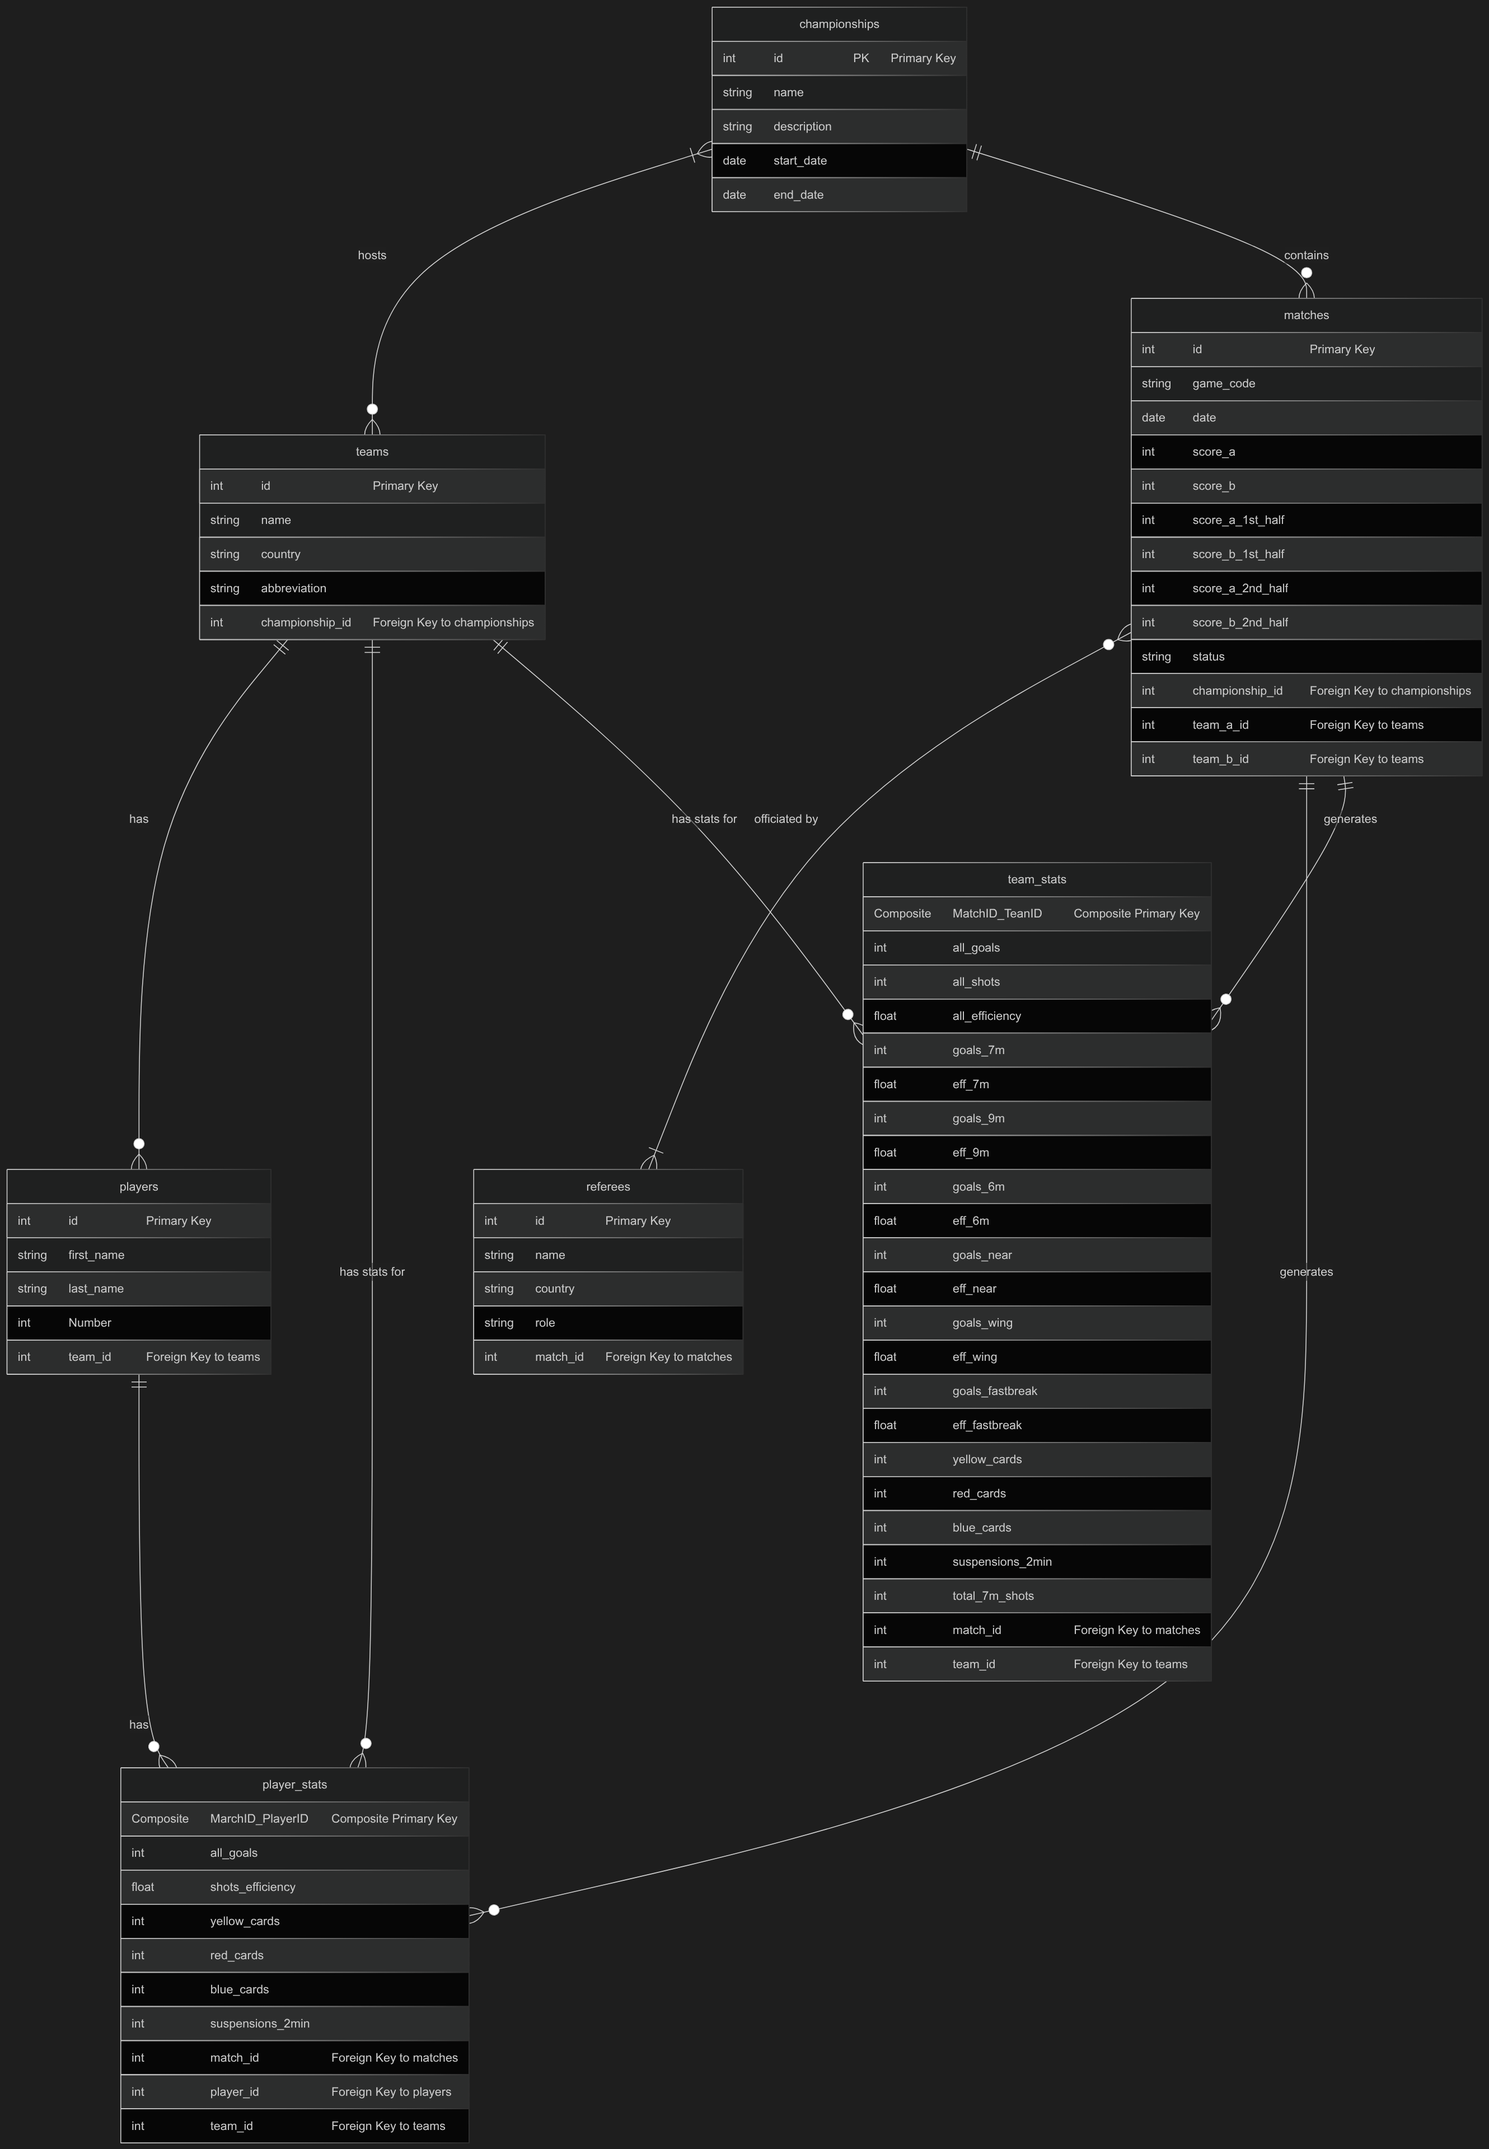
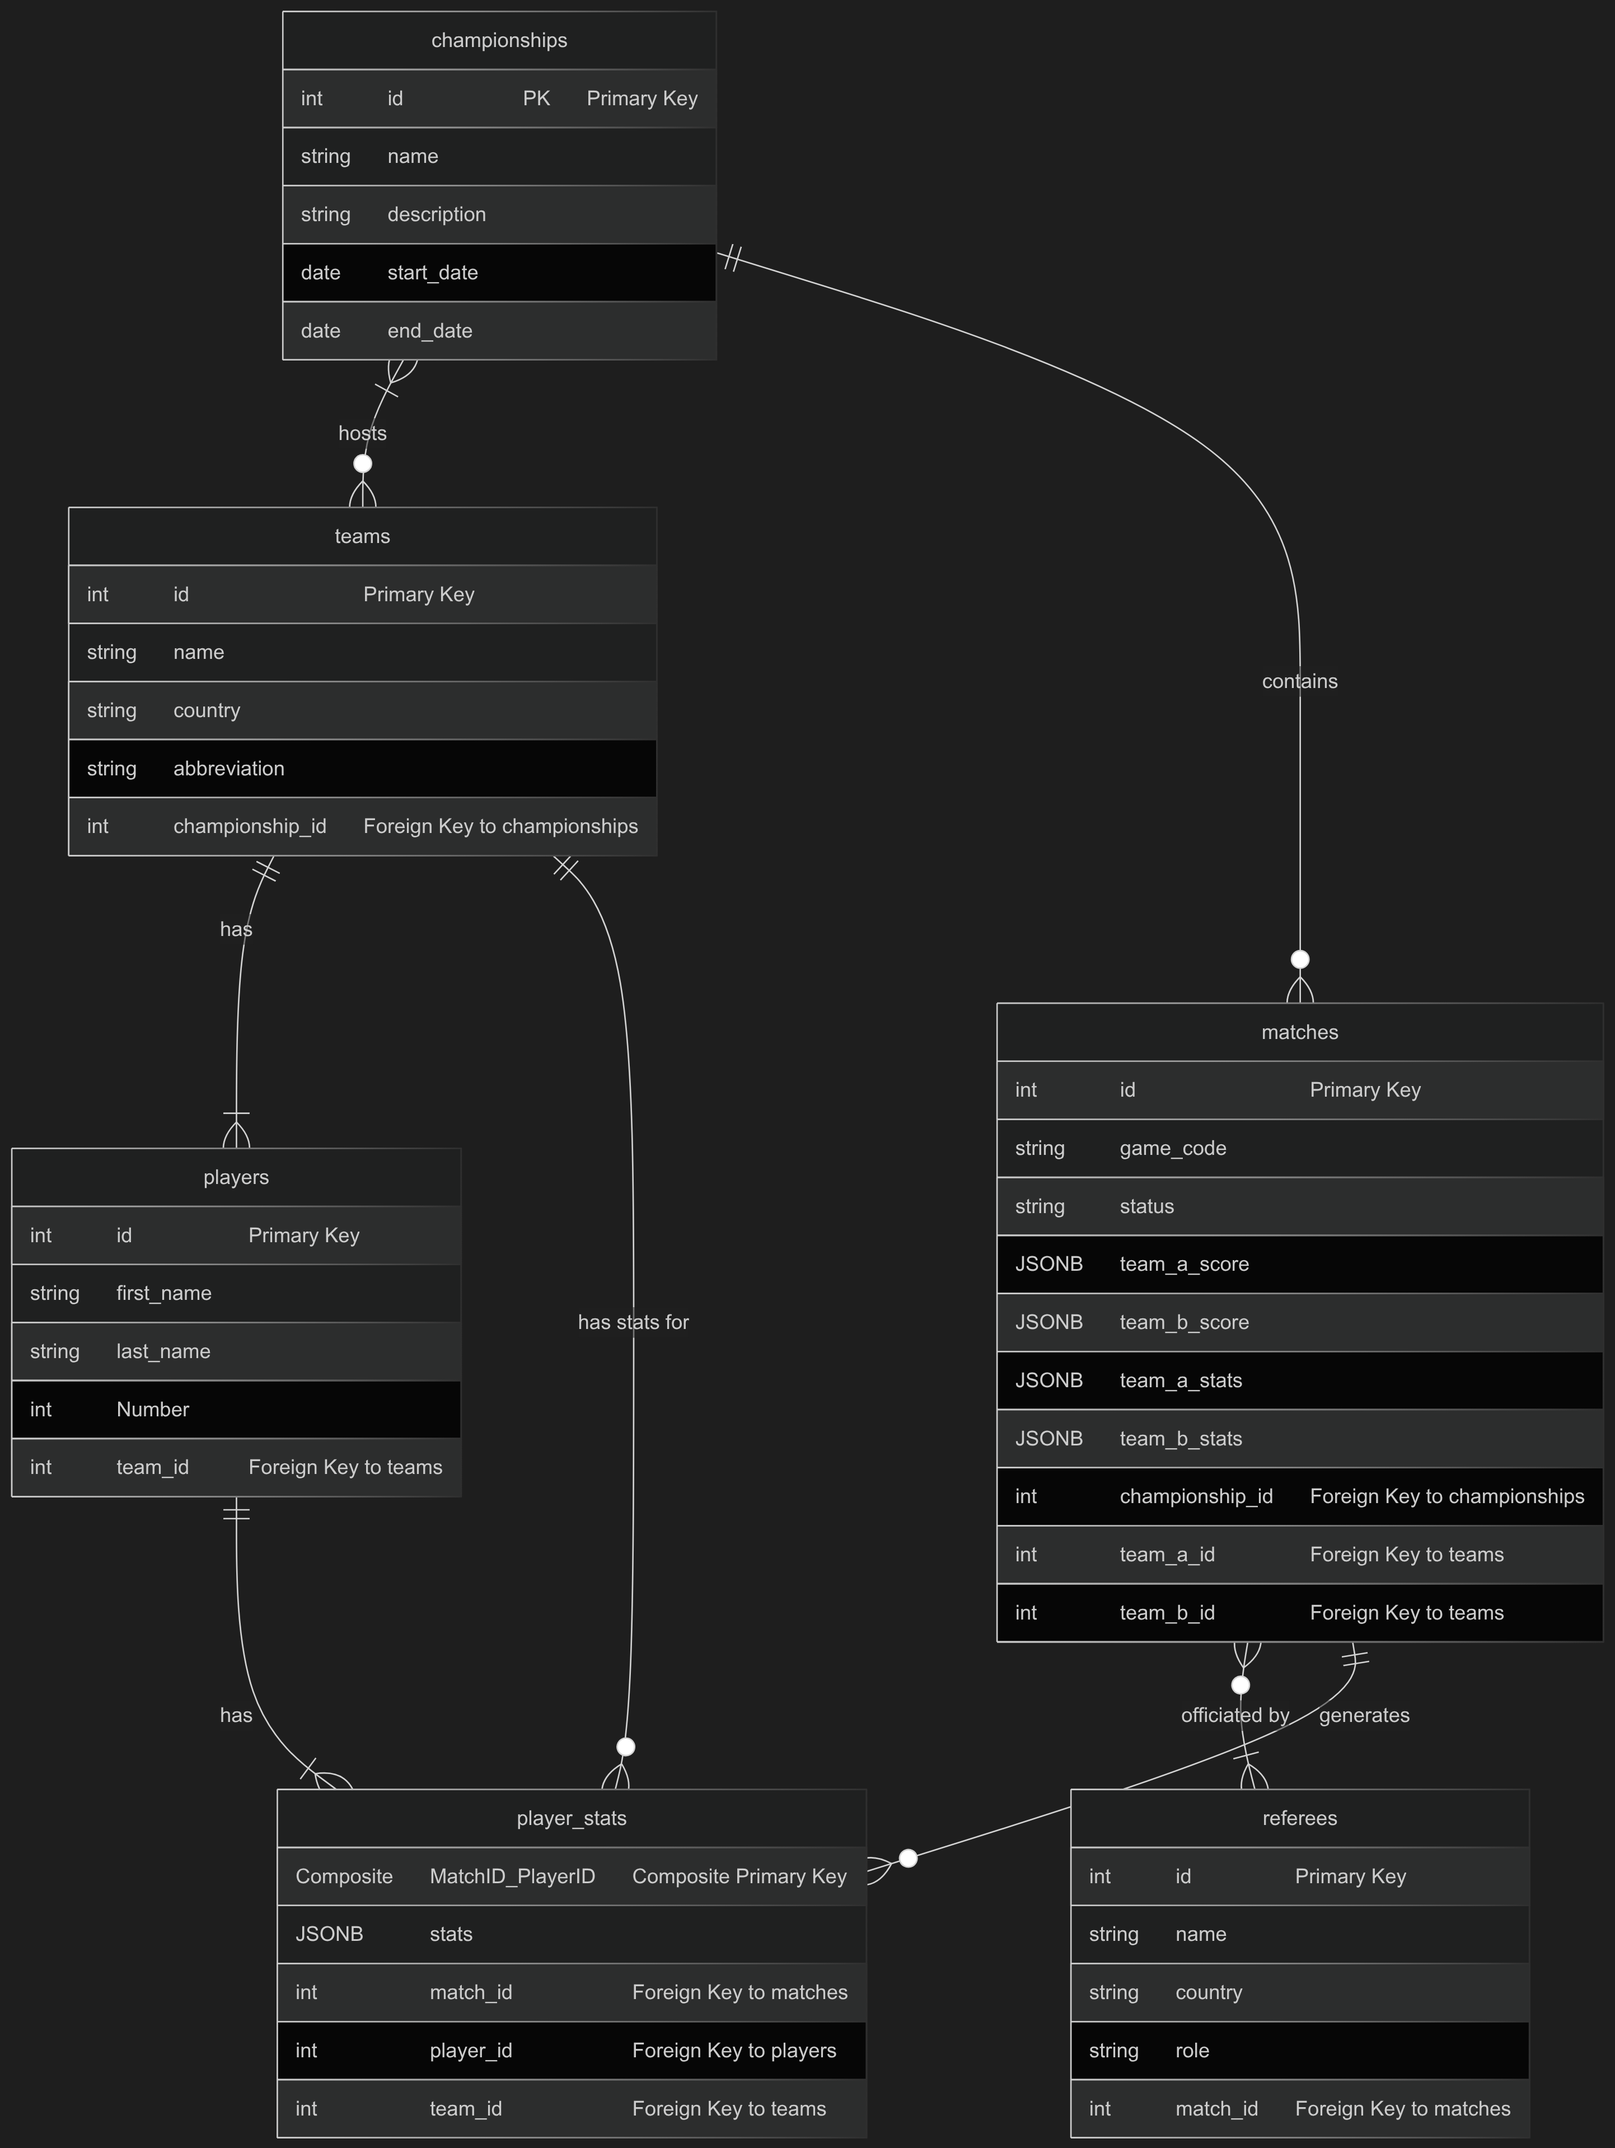
modified the database design to use JSONB

diff --git a/adddata.py b/adddata.py
@@ -3,6 +3,7 @@ from pprint import pprint
 import psycopg2
 from dotenv import load_dotenv
 import os
+import json
 championship_id=1
 
 data = parse_cp_file("cp-files/txt/01.CP")
@@ -80,6 +81,14 @@ def insert_teams(parsed_data, conn, championship_id=1):
         conn.commit()
 
 
+def extract_score_json(team_data):
+    return {
+        "total": int(team_data["G"]),         # Goals
+        "first_half": int(team_data["G1"]),   # First half goals
+        "second_half": int(team_data["G2"])   # Second half goals
+    }
+
+
 def insert_match(parsed_data, conn):
     gameinfo = parsed_data["gameinfo"][0]
 
@@ -87,62 +96,74 @@ def insert_match(parsed_data, conn):
     team_a_abbr = gameinfo["TIDA"]
     team_b_abbr = gameinfo["TIDB"]
 
-    # Step 1: Look up team_a_id and team_b_id from abbreviation
     with conn.cursor() as cur:
+        # Get team A ID
         cur.execute("SELECT id FROM teams WHERE abbreviation = %s", (team_a_abbr,))
         team_a_row = cur.fetchone()
         if not team_a_row:
             print(f"Team A with abbreviation {team_a_abbr} not found.")
-            return
+            return None
         team_a_id = team_a_row[0]
 
+        # Get team B ID
         cur.execute("SELECT id FROM teams WHERE abbreviation = %s", (team_b_abbr,))
         team_b_row = cur.fetchone()
         if not team_b_row:
             print(f"Team B with abbreviation {team_b_abbr} not found.")
-            return
+            return None
         team_b_id = team_b_row[0]
 
-        # Step 2: Prepare match data
+        # Check if match already exists
+        cur.execute("SELECT id FROM matches WHERE game_code = %s", (game_code,))
+        existing = cur.fetchone()
+        if existing:
+            print(f"Match with game_code {game_code} already exists. Skipping insert.")
+            return existing[0]  # Return existing match_id
+
+        # Build score JSONs
+        team_a_score = {
+            "total": int(gameinfo["RA"]) if gameinfo["RA"] else 0,
+            "first_half": int(gameinfo["RA1"]) if gameinfo["RA1"] else 0,
+            "second_half": int(gameinfo["RA2"]) if gameinfo["RA2"] else 0
+        }
+
+        team_b_score = {
+            "total": int(gameinfo["RB"]) if gameinfo["RB"] else 0,
+            "first_half": int(gameinfo["RB1"]) if gameinfo["RB1"] else 0,
+            "second_half": int(gameinfo["RB2"]) if gameinfo["RB2"] else 0
+        }
+
+        # Prepare data for insertion
         match_data = {
             "game_code": game_code,
             "championship_id": championship_id,
             "team_a_id": team_a_id,
             "team_b_id": team_b_id,
-            "score_a": int(gameinfo["RA"]) if gameinfo["RA"] else None,
-            "score_b": int(gameinfo["RB"]) if gameinfo["RB"] else None,
-            "score_a_1st_half": int(gameinfo["RA1"]) if gameinfo["RA1"] else None,
-            "score_b_1st_half": int(gameinfo["RB1"]) if gameinfo["RB1"] else None,
-            "score_a_2nd_half": int(gameinfo["RA2"]) if gameinfo["RA2"] else None,
-            "score_b_2nd_half": int(gameinfo["RB2"]) if gameinfo["RB2"] else None,
-            "status": gameinfo["GStatus"] or None,
+            "team_a_score": json.dumps(team_a_score),
+            "team_b_score": json.dumps(team_b_score),
+            "status": gameinfo.get("GStatus")
         }
 
-        # Step 3: Check if match already exists
-        cur.execute("SELECT id FROM matches WHERE game_code = %s", (game_code,))
-        if cur.fetchone():
-            print(f"Match with game_code {game_code} already exists. Skipping insert.")
-        else:
-            cur.execute("""
-                INSERT INTO matches (
-                    game_code, championship_id,
-                    team_a_id, team_b_id,
-                    score_a, score_b,
-                    score_a_1st_half, score_b_1st_half,
-                    score_a_2nd_half, score_b_2nd_half,
-                    status
-                ) VALUES (
-                    %(game_code)s, %(championship_id)s,
-                    %(team_a_id)s, %(team_b_id)s,
-                    %(score_a)s, %(score_b)s,
-                    %(score_a_1st_half)s, %(score_b_1st_half)s,
-                    %(score_a_2nd_half)s, %(score_b_2nd_half)s,
-                    %(status)s
-                )
-            """, match_data)
-            print(f"Inserted match {game_code} between {team_a_abbr} and {team_b_abbr}")
+        # Insert into matches table
+        cur.execute("""
+            INSERT INTO matches (
+                game_code, championship_id,
+                team_a_id, team_b_id,
+                team_a_score, team_b_score,
+                status
+            ) VALUES (
+                %(game_code)s, %(championship_id)s,
+                %(team_a_id)s, %(team_b_id)s,
+                %(team_a_score)s, %(team_b_score)s,
+                %(status)s
+            ) RETURNING id
+        """, match_data)
 
+        match_id = cur.fetchone()[0]
         conn.commit()
+        print(f"Inserted match {game_code} between {team_a_abbr} and {team_b_abbr}")
+        return match_id
+
 
 def insert_referees(parsed_data, conn):
     referee_data = parsed_data.get("referee", [])
@@ -271,6 +292,19 @@ def insert_players(parsed_data, conn):
         conn.commit()
 
 def insert_player_stats(parsed_data, conn):
+
+    def safe_int(value, default=0):
+        try:
+            return int(value)
+        except (ValueError, TypeError):
+            return default
+
+    def safe_float(value, default=0.0):
+        try:
+            return float(value)
+        except (ValueError, TypeError):
+            return default
+        
     statind = parsed_data.get("statind", [])
     gameinfo = parsed_data.get("gameinfo", [])
 
@@ -285,7 +319,7 @@ def insert_player_stats(parsed_data, conn):
         cur.execute("SELECT id FROM matches WHERE game_code = %s", (game_code,))
         match = cur.fetchone()
         if not match:
-            print(f" Match {game_code} not found.")
+            print(f"Match {game_code} not found.")
             return
 
         match_id = match[0]
@@ -316,23 +350,15 @@ def insert_player_stats(parsed_data, conn):
                 continue
 
             player_id = player[0]
-
-            def parse_int(val): return int(val) if val and val.isdigit() else 0
-            def parse_float(val): 
-                try: return float(val)
-                except: return 0.0
-
-            stats = {
-                "match_id": match_id,
-                "player_id": player_id,
-                "team_id": team_id,
-                "all_goals": parse_int(row.get("AllG")),
-                "shots_efficiency": parse_float(row.get("AllEff")),
-                "yellow_cards": parse_int(row.get("YC")),
-                "red_cards": parse_int(row.get("RC")),
-                "blue_cards": parse_int(row.get("EX")),
-                "suspensions_2min": parse_int(row.get("P2minT"))
+            stats_json = {
+                "all_goals": safe_int(row.get("AllG")),
+                "shots_efficiency": safe_float(row.get("AllEff")),
+                "yellow_cards": safe_int(row.get("YC")),
+                "red_cards": safe_int(row.get("RC")),
+                "blue_cards": safe_int(row.get("EX")),
+                "suspensions_2min": safe_int(row.get("P2minT"))
             }
+
 
             # Check if already inserted
             cur.execute("""
@@ -346,20 +372,40 @@ def insert_player_stats(parsed_data, conn):
             # Insert stats
             cur.execute("""
                 INSERT INTO player_stats (
-                    match_id, player_id, team_id,
-                    all_goals, shots_efficiency,
-                    yellow_cards, red_cards, blue_cards, suspensions_2min
-                ) VALUES (
-                    %(match_id)s, %(player_id)s, %(team_id)s,
-                    %(all_goals)s, %(shots_efficiency)s,
-                    %(yellow_cards)s, %(red_cards)s, %(blue_cards)s, %(suspensions_2min)s
-                )
-            """, stats)
+                    match_id, player_id, team_id, stats
+                ) VALUES (%s, %s, %s, %s)
+            """, (match_id, player_id, team_id, json.dumps(stats_json)))
+
             print(f"Inserted stats for {first_name} {last_name} (match {game_code})")
 
         conn.commit()
 
-def insert_team_stats(parsed_data, conn):
+def clean_stats(row):
+
+    return {
+        "all_goals": int(row["AllG"]),
+        "all_shots": int(row["AllShots"]),
+        "all_efficiency": float(row["AllEff"]),
+        "goals_7m": int(row["P7mG"]),
+        "eff_7m": float(row["P7mEff"]),
+        "goals_9m": int(row["P9mG"]),
+        "eff_9m": float(row["P9mEff"]),
+        "goals_6m": int(row["P6mG"]),
+        "eff_6m": float(row["P6mEff"]),
+        "goals_near": int(row["NearG"]),
+        "eff_near": float(row["NearEff"]),
+        "goals_wing": int(row["WingG"]),
+        "eff_wing": float(row["WingEff"]),
+        "goals_fastbreak": int(row["FBG"]),
+        "eff_fastbreak": float(row["FBEff"]),
+        "yellow_cards": int(row["YC"]),
+        "red_cards": int(row["RC"]),
+        "blue_cards": int(row["EX"]),
+        "suspensions_2min": int(row["P2minT"]),
+        "total_7m_shots": int(row["P7mShots"])
+    }
+
+def insert_match_team_stats_json(parsed_data, conn):
     statteam = parsed_data.get("statteam", [])
     gameinfo = parsed_data.get("gameinfo", [])
 
@@ -372,102 +418,46 @@ def insert_team_stats(parsed_data, conn):
     with conn.cursor() as cur:
         # Get match_id
         cur.execute("SELECT id FROM matches WHERE game_code = %s", (game_code,))
-        match = cur.fetchone()
-        if not match:
+        match_row = cur.fetchone()
+        if not match_row:
             print(f"Match {game_code} not found.")
             return
 
-        match_id = match[0]
+        match_id = match_row[0]
+        team_a_abbr = gameinfo[0]["TIDA"]
+        team_b_abbr = gameinfo[0]["TIDB"]
 
-        for row in statteam:
-            team_abbr = row.get("TID")
-            if not team_abbr:
-                continue
+        team_a_data = next((row for row in statteam if row["TID"] == team_a_abbr), None)
+        team_b_data = next((row for row in statteam if row["TID"] == team_b_abbr), None)
 
-            # Get team_id
-            cur.execute("SELECT id FROM teams WHERE abbreviation = %s", (team_abbr,))
-            team = cur.fetchone()
-            if not team:
-                print(f"Team {team_abbr} not found.")
-                continue
+        if not team_a_data or not team_b_data:
+            print(f"Could not find stats for both teams: {team_a_abbr}, {team_b_abbr}")
+            return
 
-            team_id = team[0]
+        team_a_stats = clean_stats(team_a_data)
+        team_b_stats = clean_stats(team_b_data)
 
-            # Check if stats already inserted
-            cur.execute("""
-                SELECT 1 FROM team_stats
-                WHERE match_id = %s AND team_id = %s
-            """, (match_id, team_id))
-
-            if cur.fetchone():
-                print(f"Team stats already exist for team {team_abbr} in match {game_code}")
-                continue
-
-            def parse_int(val): return int(val) if val and val.isdigit() else 0
-            def parse_float(val): 
-                try: return float(val)
-                except: return 0.0
-
-            stats = {
-                "match_id": match_id,
-                "team_id": team_id,
-                "all_goals": parse_int(row.get("AllG")),
-                "all_shots": parse_int(row.get("AllShots")),
-                "all_efficiency": parse_float(row.get("AllEff")),
-                "goals_7m": parse_int(row.get("P7mG")),
-                "eff_7m": parse_float(row.get("P7mEff")),
-                "goals_9m": parse_int(row.get("P9mG")),
-                "eff_9m": parse_float(row.get("P9mEff")),
-                "goals_6m": parse_int(row.get("P6mG")),
-                "eff_6m": parse_float(row.get("P6mEff")),
-                "goals_near": parse_int(row.get("NearG")),
-                "eff_near": parse_float(row.get("NearEff")),
-                "goals_wing": parse_int(row.get("WingG")),
-                "eff_wing": parse_float(row.get("WingEff")),
-                "goals_fastbreak": parse_int(row.get("FBG")),
-                "eff_fastbreak": parse_float(row.get("FBEff")),
-                "yellow_cards": parse_int(row.get("YC")),
-                "red_cards": parse_int(row.get("RC")),
-                "blue_cards": parse_int(row.get("EX")),
-                "suspensions_2min": parse_int(row.get("P2minT")),
-                "total_7m_shots": parse_int(row.get("P7mShots"))
-            }
-
-            cur.execute("""
-                INSERT INTO team_stats (
-                    match_id, team_id,
-                    all_goals, all_shots, all_efficiency,
-                    goals_7m, eff_7m,
-                    goals_9m, eff_9m,
-                    goals_6m, eff_6m,
-                    goals_near, eff_near,
-                    goals_wing, eff_wing,
-                    goals_fastbreak, eff_fastbreak,
-                    yellow_cards, red_cards, blue_cards,
-                    suspensions_2min, total_7m_shots
-                ) VALUES (
-                    %(match_id)s, %(team_id)s,
-                    %(all_goals)s, %(all_shots)s, %(all_efficiency)s,
-                    %(goals_7m)s, %(eff_7m)s,
-                    %(goals_9m)s, %(eff_9m)s,
-                    %(goals_6m)s, %(eff_6m)s,
-                    %(goals_near)s, %(eff_near)s,
-                    %(goals_wing)s, %(eff_wing)s,
-                    %(goals_fastbreak)s, %(eff_fastbreak)s,
-                    %(yellow_cards)s, %(red_cards)s, %(blue_cards)s,
-                    %(suspensions_2min)s, %(total_7m_shots)s
-                )
-            """, stats)
-
-            print(f"Inserted team stats for team {team_abbr} (match {game_code})")
+        # Update only team stats JSON in matches
+        cur.execute("""
+            UPDATE matches
+            SET team_a_stats = %s,
+                team_b_stats = %s
+            WHERE id = %s
+        """, (
+            json.dumps(team_a_stats),
+            json.dumps(team_b_stats),
+            match_id
+        ))
 
         conn.commit()
-
+        print(f"Updated match {game_code} with team stats JSONs.")
+        
 insert_teams(data, conn)
 insert_match(data, conn)
 insert_referees(data, conn)
 insert_players(data, conn)
 insert_player_stats(data, conn)
-insert_team_stats(data, conn)
+insert_match_team_stats_json(data, conn)
+
 # Done
 conn.close()
